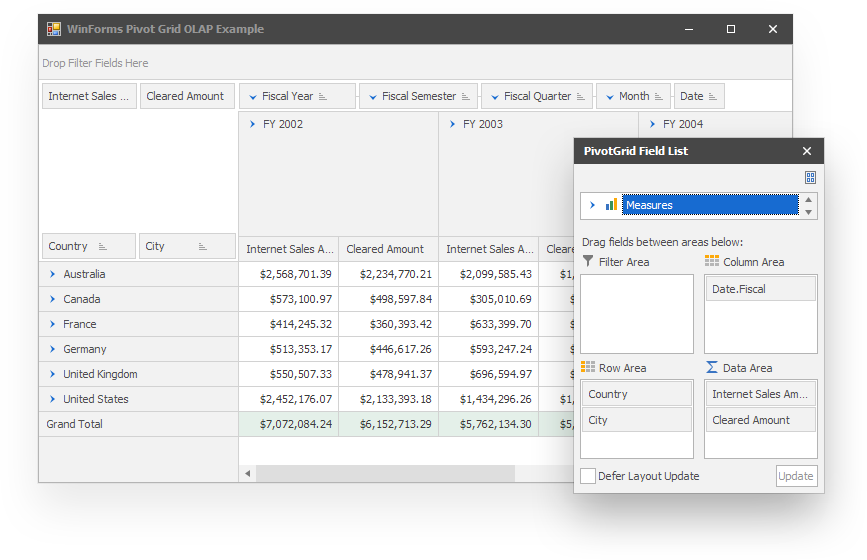
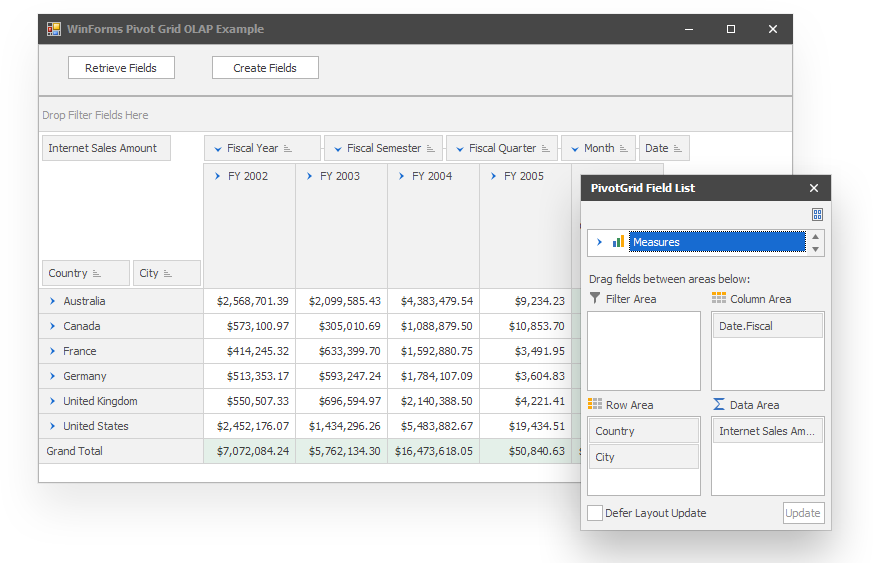
Update example and description to illustrate how to use the OLAPExpression field property,

diff --git a/CS/WinOlapRetrieveFieldsExample/Form1.Designer.cs b/CS/WinOlapRetrieveFieldsExample/Form1.Designer.cs
@@ -28,24 +28,59 @@
         /// </summary>
         private void InitializeComponent()
         {
-            DevExpress.XtraPivotGrid.PivotGridGroup pivotGridGroup1 = new DevExpress.XtraPivotGrid.PivotGridGroup();
+            DevExpress.XtraPivotGrid.PivotGridGroup pivotGridGroup2 = new DevExpress.XtraPivotGrid.PivotGridGroup();
             this.pivotGridControl1 = new DevExpress.XtraPivotGrid.PivotGridControl();
+            this.panelControl1 = new DevExpress.XtraEditors.PanelControl();
+            this.btnRetrieveFields = new DevExpress.XtraEditors.SimpleButton();
+            this.btnCreateUnboundFields = new DevExpress.XtraEditors.SimpleButton();
             ((System.ComponentModel.ISupportInitialize)(this.pivotGridControl1)).BeginInit();
+            ((System.ComponentModel.ISupportInitialize)(this.panelControl1)).BeginInit();
+            this.panelControl1.SuspendLayout();
             this.SuspendLayout();
             // 
             // pivotGridControl1
             // 
             this.pivotGridControl1.Dock = System.Windows.Forms.DockStyle.Fill;
-            pivotGridGroup1.Caption = "Date.Fiscal";
-            pivotGridGroup1.Hierarchy = "[Date].[Fiscal]";
+            pivotGridGroup2.Caption = "Date.Fiscal";
+            pivotGridGroup2.Hierarchy = "[Date].[Fiscal]";
             this.pivotGridControl1.Groups.AddRange(new DevExpress.XtraPivotGrid.PivotGridGroup[] {
-            pivotGridGroup1});
-            this.pivotGridControl1.Location = new System.Drawing.Point(0, 0);
+            pivotGridGroup2});
+            this.pivotGridControl1.Location = new System.Drawing.Point(0, 52);
             this.pivotGridControl1.Name = "pivotGridControl1";
             this.pivotGridControl1.OLAPConnectionString = "";
             this.pivotGridControl1.OLAPDataProvider = DevExpress.XtraPivotGrid.OLAPDataProvider.Adomd;
-            this.pivotGridControl1.Size = new System.Drawing.Size(755, 439);
+            this.pivotGridControl1.Size = new System.Drawing.Size(755, 387);
             this.pivotGridControl1.TabIndex = 0;
+            // 
+            // panelControl1
+            // 
+            this.panelControl1.Controls.Add(this.btnCreateUnboundFields);
+            this.panelControl1.Controls.Add(this.btnRetrieveFields);
+            this.panelControl1.Dock = System.Windows.Forms.DockStyle.Top;
+            this.panelControl1.Location = new System.Drawing.Point(0, 0);
+            this.panelControl1.Name = "panelControl1";
+            this.panelControl1.Size = new System.Drawing.Size(755, 52);
+            this.panelControl1.TabIndex = 1;
+            // 
+            // btnRetrieveFields
+            // 
+            this.btnRetrieveFields.AccessibleDescription = "            pivotGridControl1.Fields[\"[Customer].[Country].[Country]\"]";
+            this.btnRetrieveFields.Location = new System.Drawing.Point(30, 12);
+            this.btnRetrieveFields.Name = "btnRetrieveFields";
+            this.btnRetrieveFields.Size = new System.Drawing.Size(107, 23);
+            this.btnRetrieveFields.TabIndex = 0;
+            this.btnRetrieveFields.Text = "Retrieve Fields";
+            this.btnRetrieveFields.Click += new System.EventHandler(this.btnRetrieveFields_Click);
+            // 
+            // btnCreateUnboundFields
+            // 
+            this.btnCreateUnboundFields.AccessibleDescription = "";
+            this.btnCreateUnboundFields.Location = new System.Drawing.Point(174, 12);
+            this.btnCreateUnboundFields.Name = "btnCreateUnboundFields";
+            this.btnCreateUnboundFields.Size = new System.Drawing.Size(107, 23);
+            this.btnCreateUnboundFields.TabIndex = 1;
+            this.btnCreateUnboundFields.Text = "Create Fields";
+            this.btnCreateUnboundFields.Click += new System.EventHandler(this.btnCreateFields_Click);
             // 
             // Form1
             // 
@@ -53,9 +88,12 @@
             this.AutoScaleMode = System.Windows.Forms.AutoScaleMode.Font;
             this.ClientSize = new System.Drawing.Size(755, 439);
             this.Controls.Add(this.pivotGridControl1);
+            this.Controls.Add(this.panelControl1);
             this.Name = "Form1";
             this.Text = "WinForms Pivot Grid OLAP Example";
             ((System.ComponentModel.ISupportInitialize)(this.pivotGridControl1)).EndInit();
+            ((System.ComponentModel.ISupportInitialize)(this.panelControl1)).EndInit();
+            this.panelControl1.ResumeLayout(false);
             this.ResumeLayout(false);
 
         }
@@ -63,6 +101,9 @@
         #endregion
 
         private DevExpress.XtraPivotGrid.PivotGridControl pivotGridControl1;
+        private DevExpress.XtraEditors.PanelControl panelControl1;
+        private DevExpress.XtraEditors.SimpleButton btnCreateUnboundFields;
+        private DevExpress.XtraEditors.SimpleButton btnRetrieveFields;
     }
 }
 

diff --git a/CS/WinOlapRetrieveFieldsExample/Form1.cs b/CS/WinOlapRetrieveFieldsExample/Form1.cs
@@ -1,6 +1,5 @@
-using System.Windows.Forms;
+using DevExpress.XtraPivotGrid;
 using DevExpress.XtraPivotGrid.Customization;
-using DevExpress.XtraPivotGrid;
 
 namespace WinOlapRetrieveFieldsExample
 {
@@ -9,7 +8,7 @@ namespace WinOlapRetrieveFieldsExample
         public Form1()
         {
             InitializeComponent();
-            // Specifies the OLAP connection settings.
+            // Specify the OLAP connection settings.
             pivotGridControl1.OLAPDataProvider = OLAPDataProvider.Adomd;
             pivotGridControl1.OLAPConnectionString =
                 @"Provider=MSOLAP;
@@ -18,26 +17,63 @@ namespace WinOlapRetrieveFieldsExample
                 Cube name=Adventure Works;
                 Query Timeout=100;";
 
-            // Retrieves fields.
+            // Set the Customization Forms style.
+            pivotGridControl1.OptionsCustomization.CustomizationFormStyle = CustomizationFormStyle.Excel2007;
+            // Invoke the Customization Form.
+            pivotGridControl1.FieldsCustomization();
+        }
+
+        private void btnRetrieveFields_Click(object sender, System.EventArgs e)
+        {
+            // Retrieve fields.
             pivotGridControl1.RetrieveFields(PivotArea.ColumnArea, false);
 
-            // Adds some fields from the Field List to the specified area to create a report.
+            // Add fields from the Field List to the specified area to create a report.
+            pivotGridControl1.BeginUpdate();
             pivotGridControl1.Fields["[Customer].[Country].[Country]"].Area = PivotArea.RowArea;
+            pivotGridControl1.Fields["[Customer].[Country].[Country]"].OLAPDimensionCaption = "TEST";
             pivotGridControl1.Fields["[Customer].[Country].[Country]"].Visible = true;
             pivotGridControl1.Fields["[Customer].[City].[City]"].Area = PivotArea.RowArea;
             pivotGridControl1.Fields["[Customer].[City].[City]"].Visible = true;
             pivotGridControl1.Fields["[Date].[Fiscal].[Fiscal Year]"].Area = PivotArea.ColumnArea;
             pivotGridControl1.Fields["[Date].[Fiscal].[Fiscal Year]"].Visible = true;
             pivotGridControl1.Fields["[Measures].[Internet Sales Amount]"].Visible = true;
+            pivotGridControl1.EndUpdate();
 
-            PivotGridField dimensionField = new PivotGridField() { Caption = "Cleared Amount", Area = PivotArea.DataArea };
-            dimensionField.OLAPExpression = "[Measures].[Internet Sales Amount] * 0.87";
-            pivotGridControl1.Fields.Add(dimensionField);
+            // Resize columns automatically.
+            pivotGridControl1.BestFit();
 
-            // Sets the Customization Forms style to Excel2007 with additional capabilities.
-            pivotGridControl1.OptionsCustomization.CustomizationFormStyle = CustomizationFormStyle.Excel2007;
+            // Invoke the Customization Form.
+            pivotGridControl1.FieldsCustomization();
+        }
 
-            // Invokes the Customization Form.
+        private void btnCreateFields_Click(object sender, System.EventArgs e)
+        {
+            pivotGridControl1.BeginUpdate();
+            pivotGridControl1.Fields.Clear();
+
+            // Create a field, specify a query expression to obtain data and a caption to display it in the Customization form.
+            PivotGridFieldBase fieldCountry = pivotGridControl1.Fields.Add("Country", PivotArea.RowArea);
+            fieldCountry.OLAPExpression = "[Customer].[Country].[Country]";
+            fieldCountry.OLAPDimensionCaption = "Location";
+
+            PivotGridFieldBase fieldCity = pivotGridControl1.Fields.Add("City", PivotArea.RowArea);
+            fieldCity.OLAPExpression = "[Customer].[City].[City]";
+            fieldCity.OLAPDimensionCaption = "Location";
+
+            PivotGridField measureField = new PivotGridField() { Caption = "Cleared Amount", Area = PivotArea.DataArea };
+            measureField.OLAPExpression = "[Measures].[Internet Sales Amount] * 0.87";
+            measureField.OLAPDimensionCaption = "Sales";
+            pivotGridControl1.Fields.Add(measureField);
+
+            PivotGridFieldBase fieldTop10 = pivotGridControl1.Fields.Add("Top10", PivotArea.ColumnArea);
+            fieldTop10.OLAPExpression = "TOPCOUNT([Date].[Date].[Date].MEMBERS, 10, [Measures].[Internet Sales Amount])";
+            fieldTop10.OLAPDimensionCaption = "Top";
+            fieldTop10.Visible = false;;
+
+            pivotGridControl1.EndUpdate();
+
+            // Invoke the Customization Form.
             pivotGridControl1.FieldsCustomization();
         }
     }

diff --git a/Readme.md b/Readme.md
@@ -6,7 +6,23 @@
 # How to connect a Pivot Grid to an OLAP datasource
 
 
-If you have a cube on the OLAP server (Microsoft Analysis Services), you can view its data using the <a href="https://documentation.devexpress.com/WindowsForms/CustomDocument3409.aspx">Pivot Grid</a>. In this example, you will see how to specify connection settings to the server and create fields that represents specific measures and dimensions of the cube.<br><br>To bind the Pivot Grid control to an OLAP cube, follow the steps below.<br><br>1. Set <em>ADOMD</em> as a data provider using the <a href="https://documentation.devexpress.com/WindowsForms/DevExpressXtraPivotGridPivotGridControl_OLAPDataProvidertopic.aspx">PivotGridControl.OLAPDataProvider</a> property.<br>2. Specify connection settings to the server using the <a href="https://documentation.devexpress.com/WindowsForms/DevExpressXtraPivotGridPivotGridControl_OLAPConnectionStringtopic.aspx">PivotGridControl.OLAPConnectionString</a> property. The connection string used in the example is shown below.<br><em>OlapConnectionString="Provider=MSOLAP;Data Source=<a href="http://demos.devexpress.com/Services/OLAP/msmdpump.dll;Initial">http://demos.devexpress.com/Services/OLAP/msmdpump.dll;Initial</a> catalog=Adventure Works DW Standard Edition;Cube name=Adventure Works;Query Timeout=100;"</em><br>3. Create fields for all the measures and dimension in the bound OLAP cube, and moves these fields to the specified area, making them hidden. To do it, use the <a href="https://documentation.devexpress.com/#WindowsForms/DevExpressXtraPivotGridPivotGridControl_RetrieveFieldstopic(w5D4CA)">PivotGridControl.RetrieveFields</a> method overload and set the field's visibility to <strong>false</strong>.<br>4. Place some of the created fields within corresponding Pivot Grid Control areas (<a href="https://documentation.devexpress.com/WindowsForms/CustomDocument1688.aspx">Data Header Area</a>, <a href="https://documentation.devexpress.com/WindowsForms/CustomDocument1686.aspx">Column Header Area</a>, <a href="https://documentation.devexpress.com/WindowsForms/CustomDocument1685.aspx">Row Header Area</a> or <a href="https://documentation.devexpress.com/WindowsForms/CustomDocument1684.aspx">Filter Header Area</a>) and set the visibility of the fields to <strong>true </strong>using the <a href="https://documentation.devexpress.com/#CoreLibraries/DevExpressXtraPivotGridPivotGridFieldBase_Visibletopic">PivotGridFieldBase.Visible</a> property.<br><br>Use the invoked <a href="https://documentation.devexpress.com/#WindowsForms/CustomDocument1805">Customization Form</a> to specify the Pivot Grid control's layout.<br><br>To learn more about OLAP Datasources, see <a href="https://documentation.devexpress.com/#WindowsForms/CustomDocument11775">OLAP Datasources</a>.
+If you have a cube on the OLAP server (Microsoft Analysis Services), you can view its data using the <a href="https://docs.devexpress.com/WindowsForms/CustomDocument3409.aspx">Pivot Grid</a>. This example demonstrates how to specify connection settings and create fields that represent OLAP measures and dimensions.
+
+To bind the Pivot Grid control to an OLAP cube, follow the steps below.
+
+1. Set **ADOMD** as a data provider using the <a href="https://docs.devexpress.com/WindowsForms/DevExpress.XtraPivotGrid.PivotGridControl.OLAPDataProvider">PivotGridControl.OLAPDataProvider</a> property.
+2. Specify connection settings to the server using the <a href="https://docs.devexpress.com/WindowsForms/DevExpress.XtraPivotGrid.PivotGridControl.OLAPConnectionString">PivotGridControl.OLAPConnectionString</a> property. The connection string used in the example is shown below.
+
+```
+OlapConnectionString="Provider=MSOLAP;Data Source=<a href="http://demos.devexpress.com/Services/OLAP/msmdpump.dll;Initial">http://demos.devexpress.com/Services/OLAP/msmdpump.dll;Initial</a> catalog=Adventure Works DW Standard Edition;Cube name=Adventure Works;Query Timeout=100;"
+``` 
+
+3. Create fields for all the measures and dimension in the bound OLAP cube. Use the <a href="https://docs.devexpress.com/WindowsForms/DevExpress.XtraPivotGrid.PivotGridControl.RetrieveFields(DevExpress.XtraPivotGrid.PivotArea-System.Boolean)">PivotGridControl.RetrieveFields</a> method that creates fields, moves them to the specified area and makes them hidden. Another option is creating a new field and specifying its <a href="https://docs.devexpress.com/CoreLibraries/DevExpress.XtraPivotGrid.PivotGridFieldBase.OLAPExpression"/>OLAPExpression</a> property.
+4. Place the fields within the Pivot Grid Control areas (<a href="https://docs.devexpress.com/WindowsForms/1688">Data Header Area</a>, <a href="https://docs.devexpress.com/WindowsForms/1686">Column Header Area</a>, <a href="https://docs.devexpress.com/WindowsForms/1685">Row Header Area</a> or <a href="https://docs.devexpress.com/WindowsForms/1684">Filter Header Area</a>) as required and make them visible.
+
+Use the invoked <a href="https://docs.devexpress.com/WindowsForms/1805">Customization Form</a> to arrange fields.
+
+For more information refer to the  <a href="https://docs.devexpress.com/WindowsForms/11775">OLAP Data Source</a> online help topic.
 
 ![screenshot](https://github.com/DevExpress-Examples/how-to-connect-a-pivot-grid-to-an-olap-datasource-t344546/blob/18.2.3%2B/images/screenshot.png)
 
